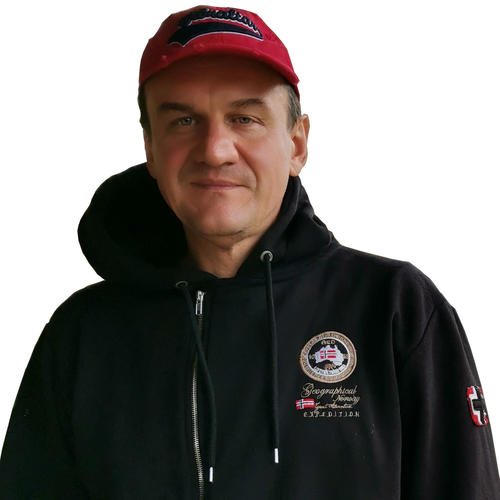
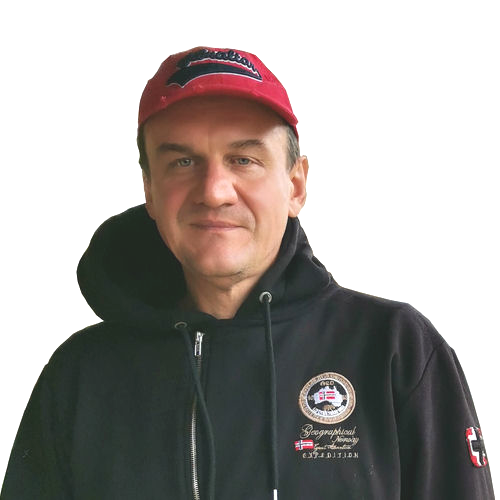
Eugene's photo is added

diff --git a/Novokosulino/mainapp/templates/mainapp/management.html b/Novokosulino/mainapp/templates/mainapp/management.html
@@ -23,7 +23,7 @@
     <div class="col-6">
       <div class="card px-1 shadow text-center">
         <div class="m-3">
-          <img src="{% static 'mainapp/img/management/faceless.png' %}" alt="фото Шмакова"  style="filter: grayscale(0); width: 100%; height: auto;"/>
+          <img src="{% static 'mainapp/img/management/EugeneShmakov-500.png' %}" alt="фото Шмакова"  style="filter: grayscale(0); width: 100%; height: auto;"/>
         </div>
         <h5 class="mb-3 fst-italic text-muted member">
           <span class="text-decoration-underline text-uppercase">Шмаков </span><span class="text-decoration-underline">Евгений Владимирович</span> </span><br />
